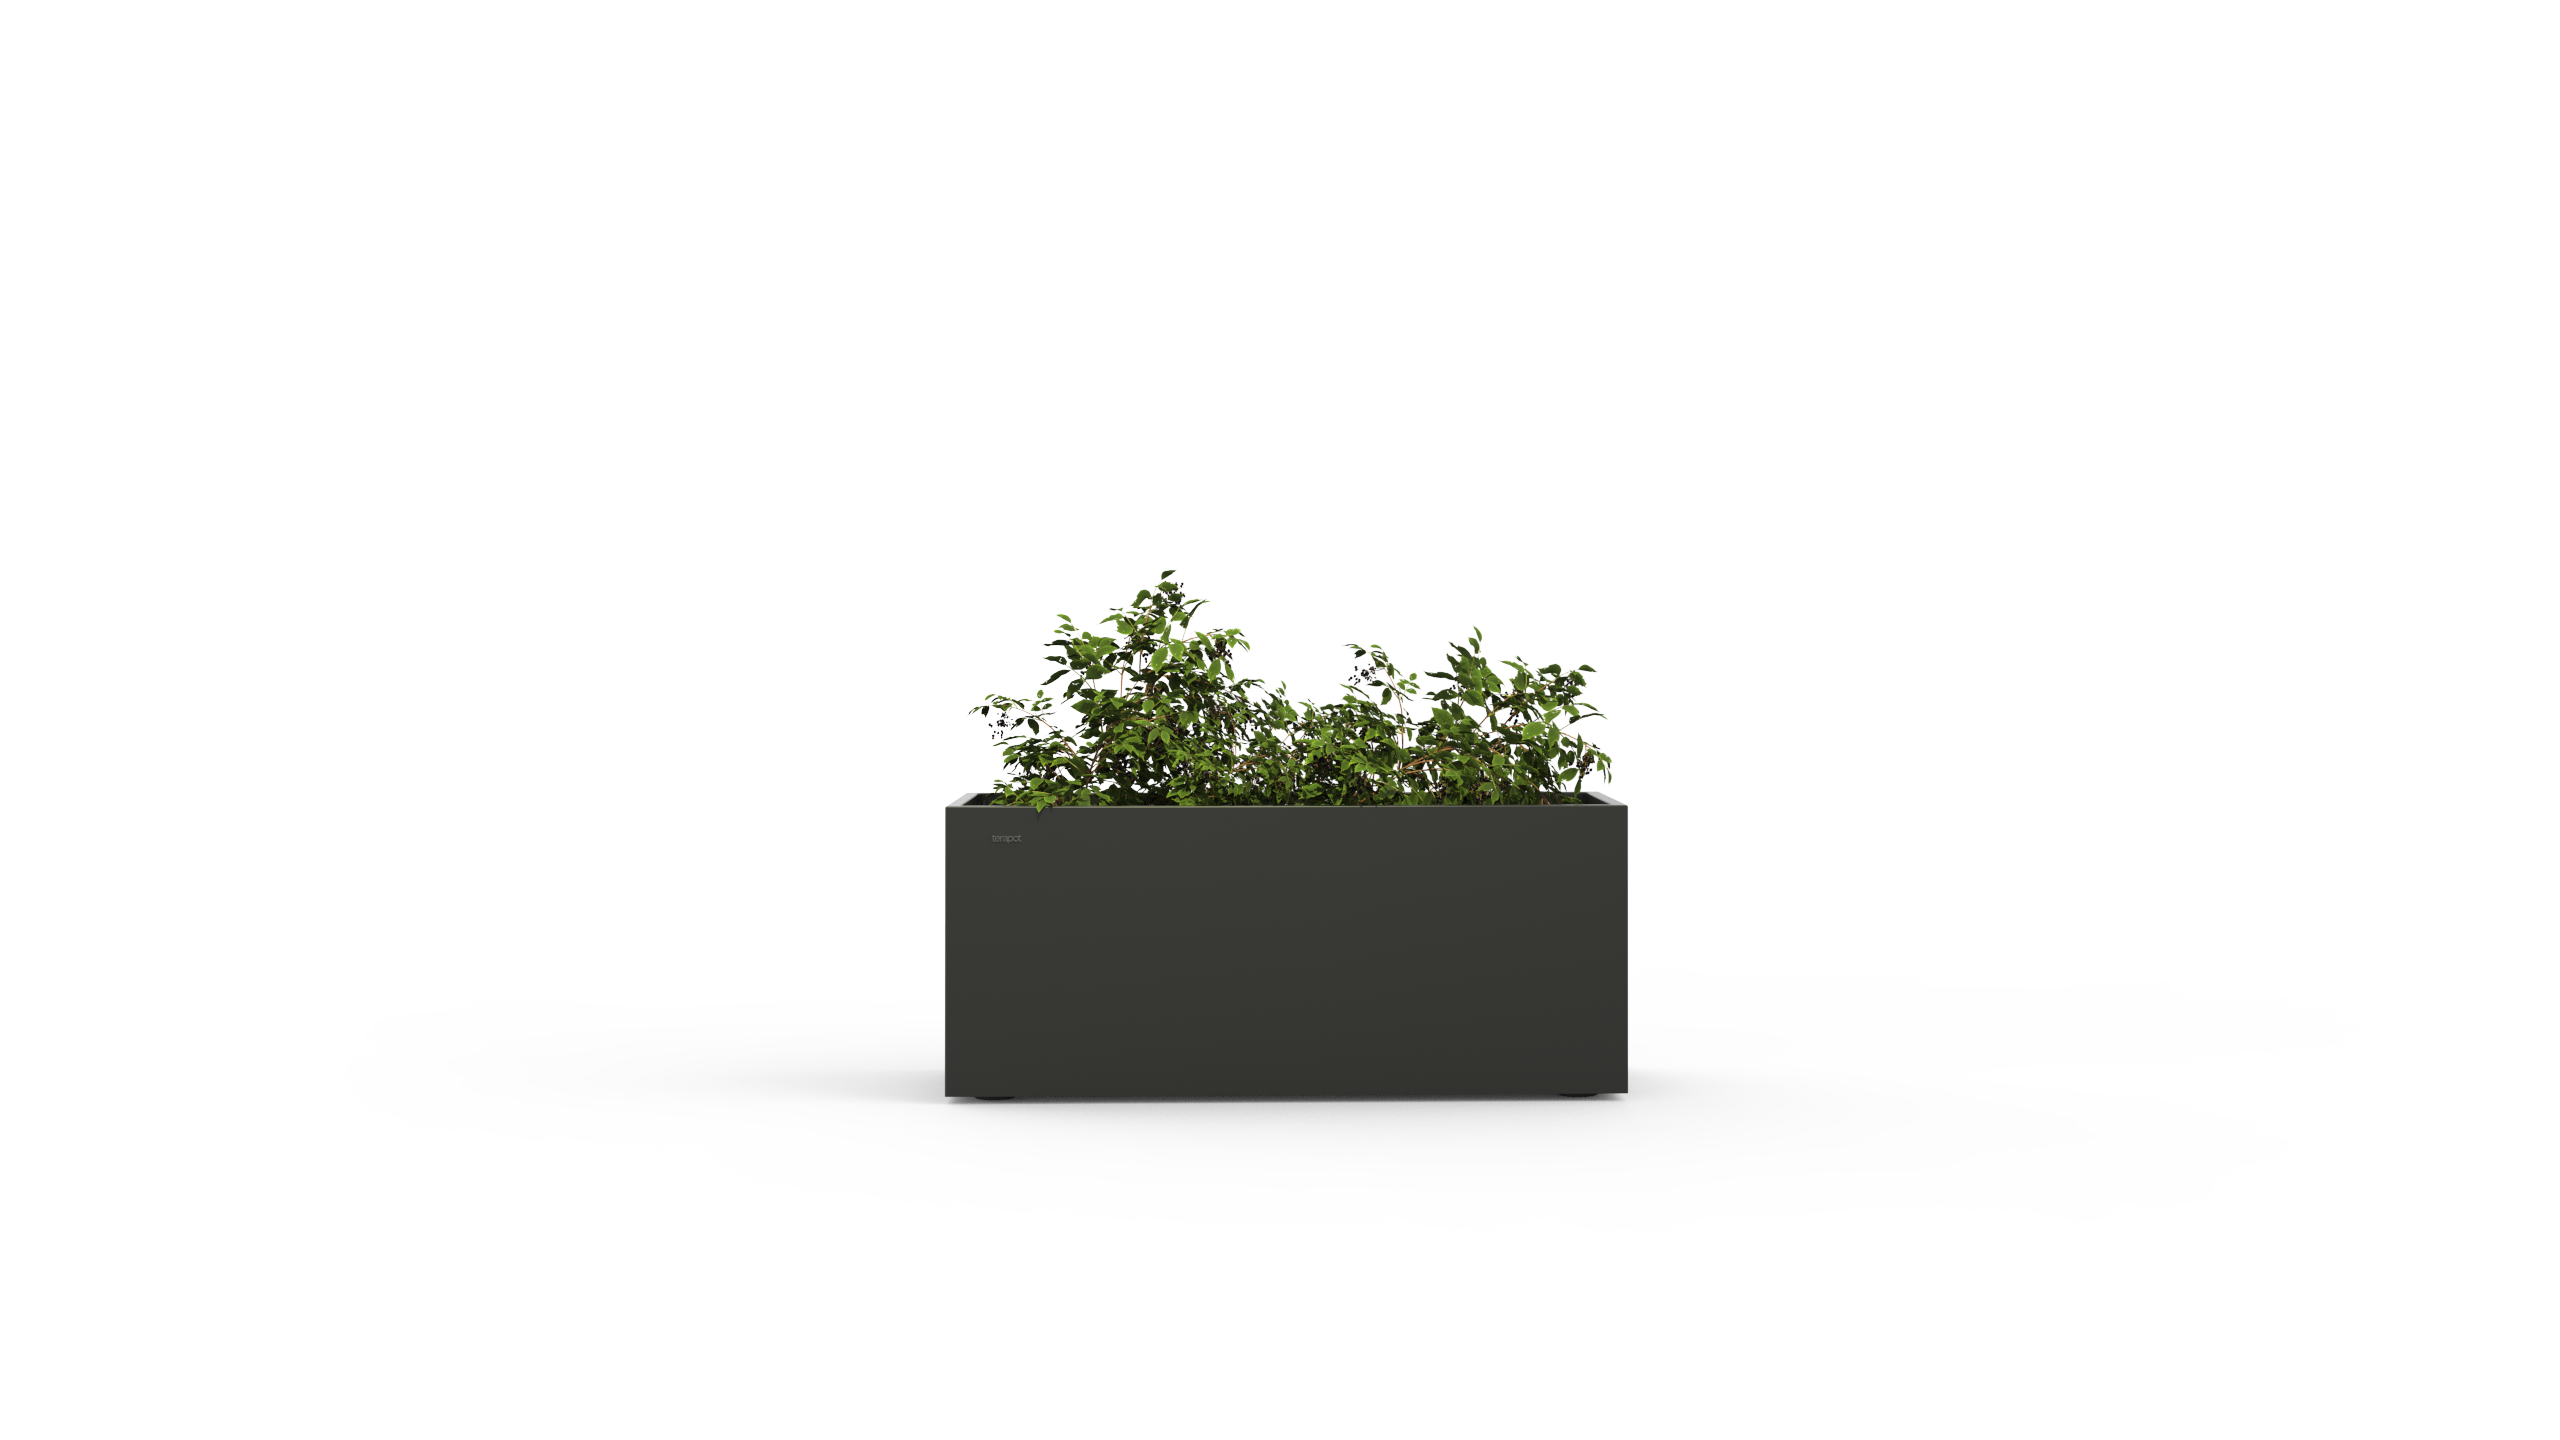
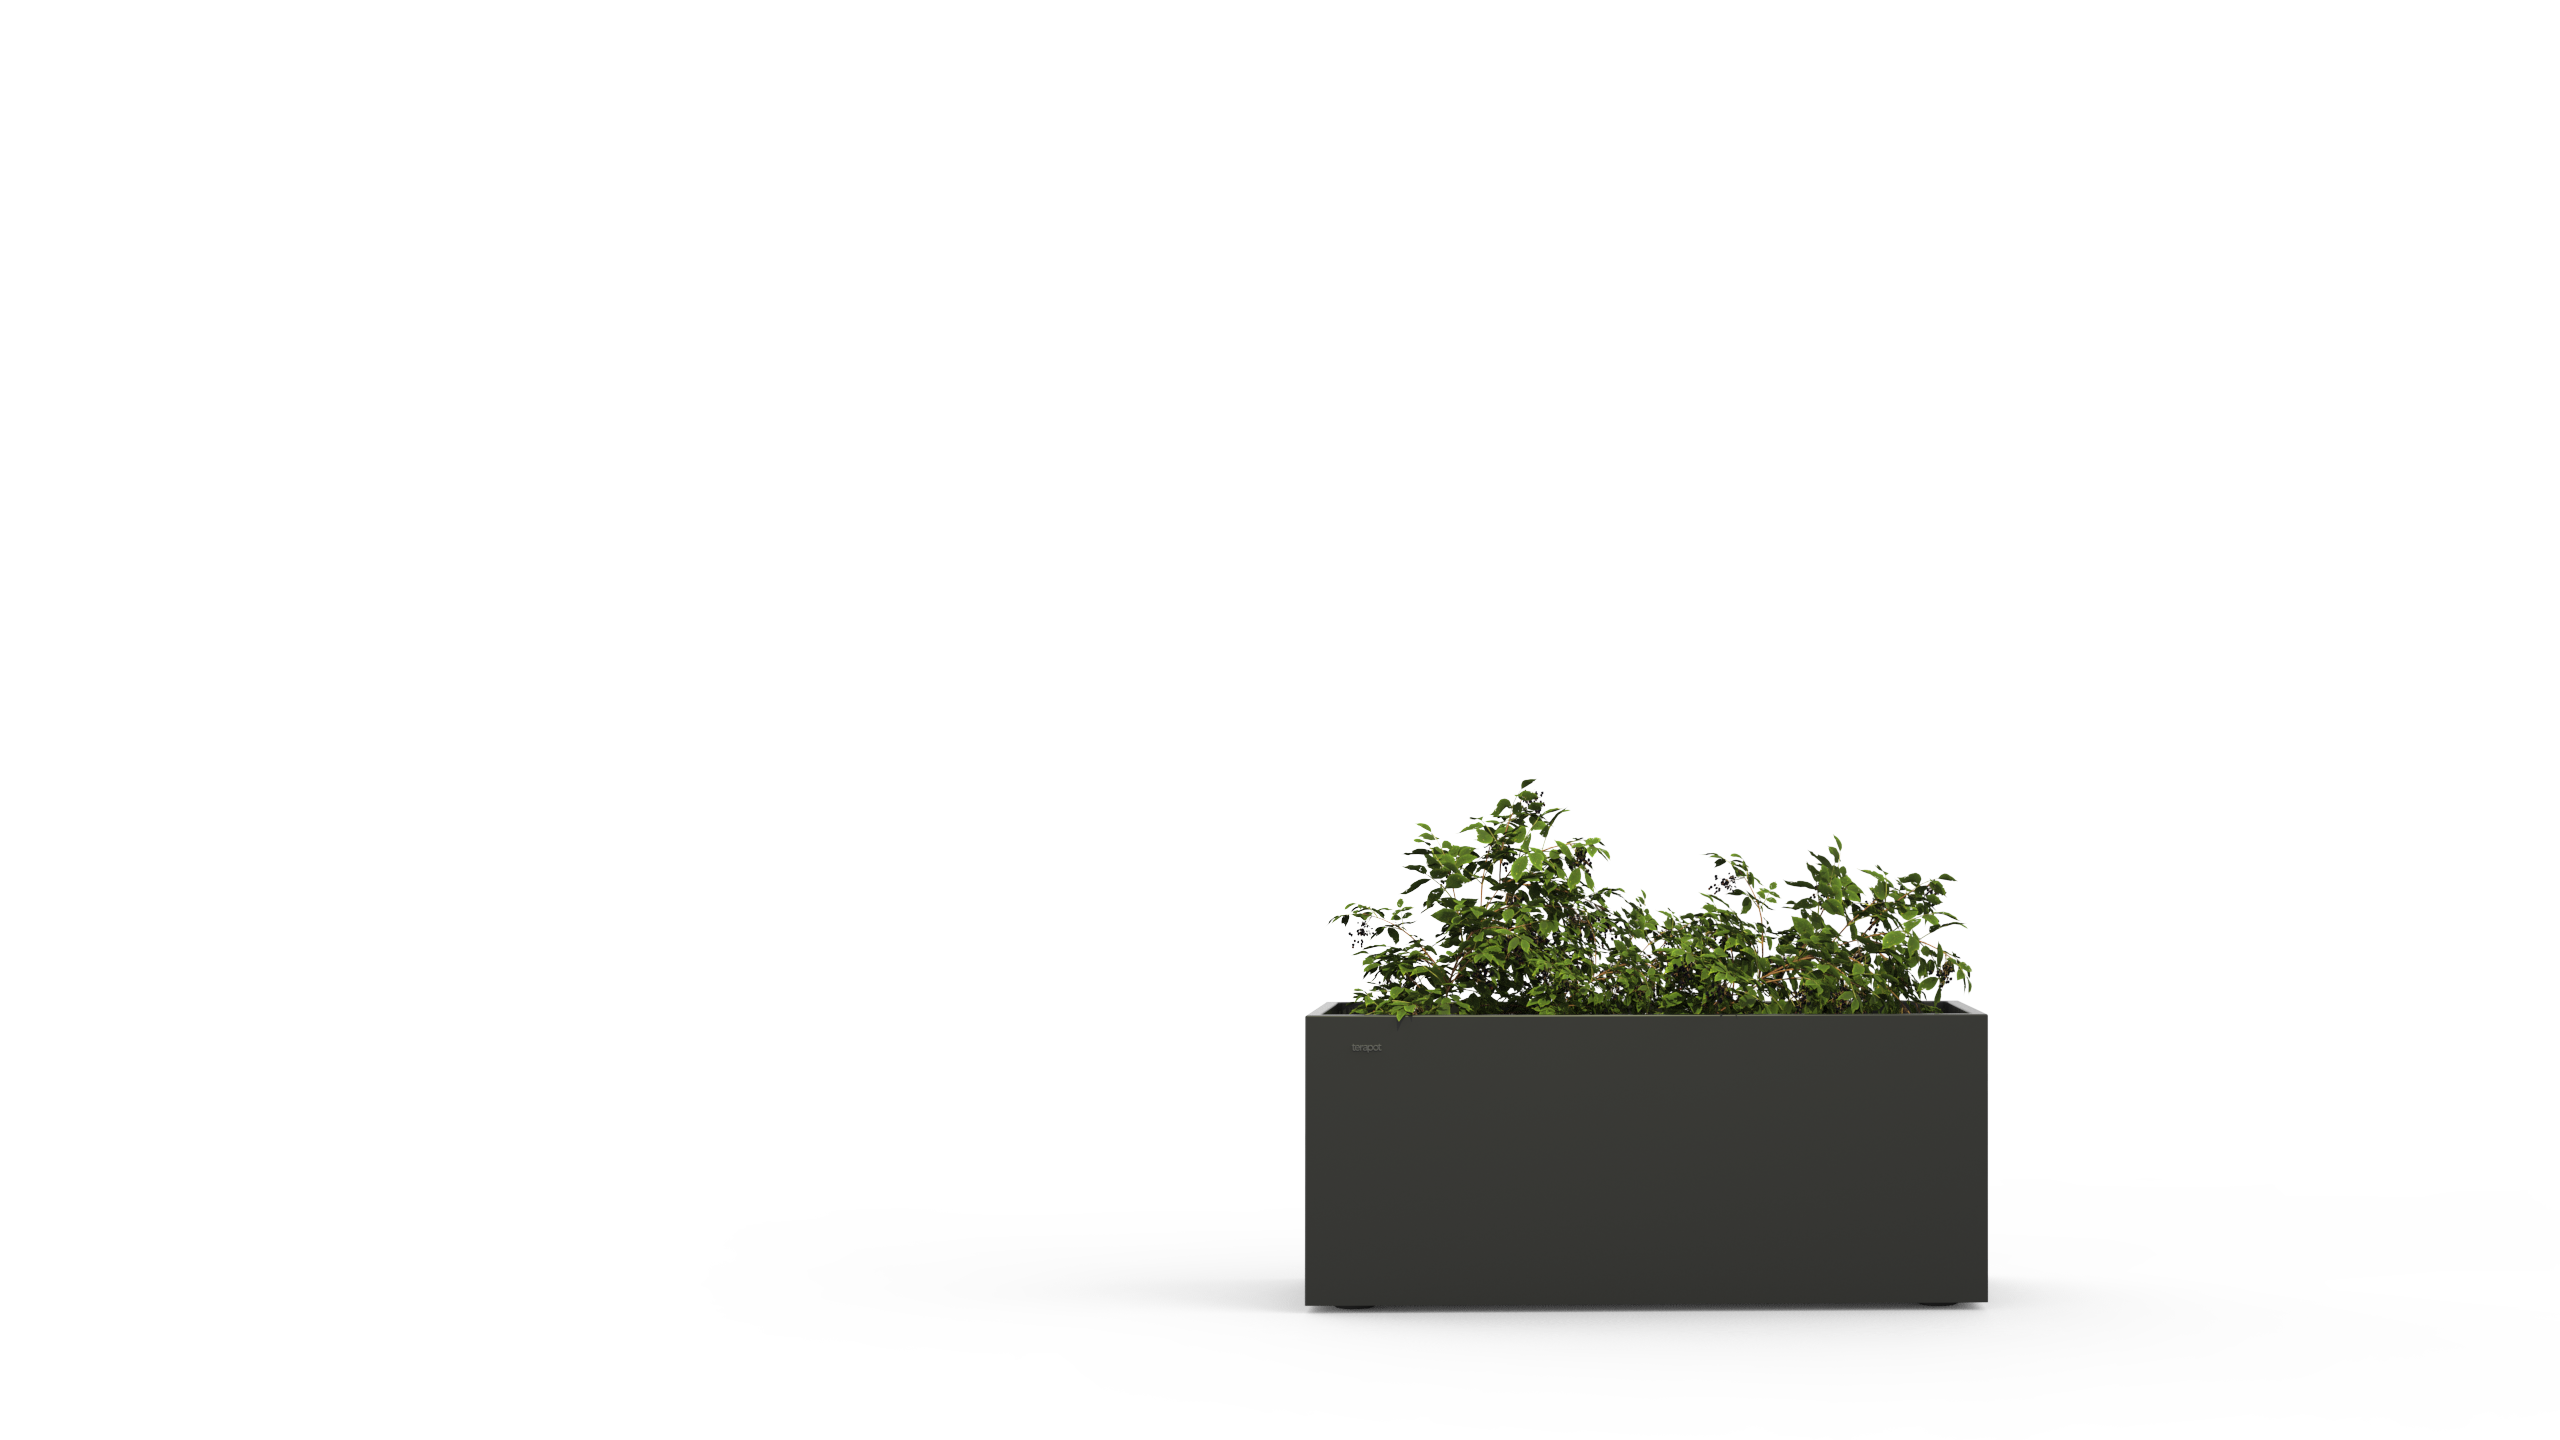
a

Changed region(s): [[0.3438, 0.4062, 0.7812, 0.9375]]

diff --git a/public/css/style.css b/public/css/style.css
@@ -1222,6 +1222,10 @@ input[type=number] {
     color:rgb(0,0,0);
 }
 
+#pot-image-phone{
+    display:none;
+}
+
 .pot .buttonsWrap{
     text-align:center;
     margin-top:70px;
@@ -1570,6 +1574,14 @@ input[type=number] {
         width:100px;
         margin-bottom:10px;
     }
+
+    #pot-image-phone{
+        display:block;
+    }
+
+    #pot-image{
+        display:none;
+    }
 }
 
 @media screen and (max-width: 650px) {
@@ -1609,7 +1621,7 @@ input[type=number] {
         border:1px solid rgb(0,0,0);
     }
     .arrivals #arriving-products .item{
-        background-size:cover;
+        background-size:130%;
     }
     .vision .text{
         font-size:26px;
